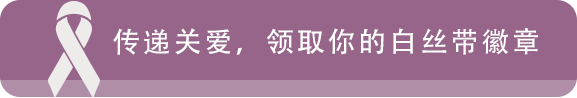
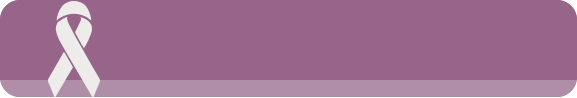
change copy

diff --git a/frontend/sass/style.scss b/frontend/sass/style.scss
@@ -486,6 +486,10 @@ img{width: 100%;}
   left: 50%;
   margin-left: -2.8rem;
   bottom: 0.3rem;
+  background: url("../../images/theme-kr/share-btn.png");
+  background-size: 100%;
+  line-height: 0.8rem;
+  text-indent: 35px;
 }
 .shadow-overlay{
   position: absolute;

diff --git a/frontend/css/style.css b/frontend/css/style.css
@@ -607,6 +607,10 @@ img {
   left: 50%;
   margin-left: -2.8rem;
   bottom: 0.3rem;
+  background: url("../../images/theme-kr/share-btn.png");
+  background-size: 100%;
+  line-height: 0.8rem;
+  text-indent: 35px;
 }
 
 .shadow-overlay {

diff --git a/protected/views/site/photo.php b/protected/views/site/photo.php
@@ -7,9 +7,10 @@
         <div class="p2-1">
             <img src="<?php echo Yii::app()->request->baseUrl; ?>/images/theme-kr/p2-1.png" alt=""/>
         </div>
-        <p class="p2-des">我们诚邀您参与BeHerVoice公益活动<br>
-            所有传递爱心的支持者都将有机会参与抽奖<br>
-            获得Stella McCartney Falabella时尚包袋</p>
+        <p class="p2-des">我们诚意邀请您们通过白丝带女性权益活动，<br>
+            把#BeHerVoice的信息传扬出去。 <br>
+            <!--获得Stella McCartney Falabella时尚包袋-->
+        </p>
         <div class="p2-product">
             <div class="pp-1 pp"></div>
             <div class="pp-2 pp">
@@ -86,10 +87,10 @@
     <div class="page page-4">
         <div class="p4-photo"></div>
         <div class="p4-2">
-            感谢您的声援！点滴关爱，汇聚海洋。<br>
-            将您的支持转发到朋友圈，即可参与BeHerVoice抽奖活动，<br>
-            赢取Stella McCartney Falabella时尚包袋。<br>
-            我们的获奖名单将于11月26日公布，请大家持续关注！<br>
+            感谢您的支持！<br>
+            立刻将它转发到您的朋友圈，即可参与#BeHerVoice抽奖活动，<br>
+            赢取丝黛拉•麦卡妮（Stella McCartney）时尚包袋。<br>
+            获奖名单将于11月26日公布，请大家密切关注！<br>
         </div>
         <div class="p3-buttons">
             <div class="btn-back btn-list">

diff --git a/protected/views/site/index.php b/protected/views/site/index.php
@@ -5,12 +5,12 @@
         <h2 class="p1-title">开云基金会长期致力于消除一切<br>
             针对于女性的暴力行为</h2>
         <p class="p1-des">
-            在这一承诺与信念的指引下，我们推出BeHerVoice公益活动，以提升公众对消除对妇女暴力行为问题的认识。在赋权女性的道路上，我们需要更多人的支持。
+            在这一承诺与信念的指引下，我们推出白丝带女性权益活动，以提升公众对消除对妇女暴力行为问题的认识。在赋权女性的道路上，我们需要更多人的支持。
         </p>
         <div class="p1-activity">
             打破沉默，声援女性<br>
             <span>我们邀您晒出靓照</span><br>
-            赢取Stella McCartney准备的意外惊喜！
+            赢取丝黛拉•麦卡妮（Stella McCartney）时尚包袋！
         </div>
         <div class="user-vertify" name="user-vertify"  action="" method="post">
             <label for="password">

diff --git a/protected/views/site/gallery.php b/protected/views/site/gallery.php
@@ -3,9 +3,9 @@
 <!--For the login page-->
 <div class="gallery-page page">
     <p class="gp-1">
-        反抗对妇女的暴力行为，改善女性生存环境<br>
-        促进性别平等。我们呼吁大家加入BeHerVoice公益活动<br>
-        支持女权运动的发展
+        制止暴力不公，推动女性发展。<br>
+        我们诚意邀请您们通过白丝带女性权益活动，<br>
+        把#BeHerVoice#的信息传扬出去。
     </p>
     <h3>
         感谢以下白丝带天使的支持
@@ -16,7 +16,8 @@
         <!--</li>-->
     </ul>
     <div class="button-share">
-        <img src="<?php echo Yii::app()->request->baseUrl; ?>/images/theme-kr/share-btn.png" alt=""/>
+        <!--<img src="<?php echo Yii::app()->request->baseUrl; ?>/images/theme-kr/share-btn.png" alt=""/>-->
+        为你发声，请领取您的白丝带徽章。
     </div>
     <div class="shadow-overlay">
 
